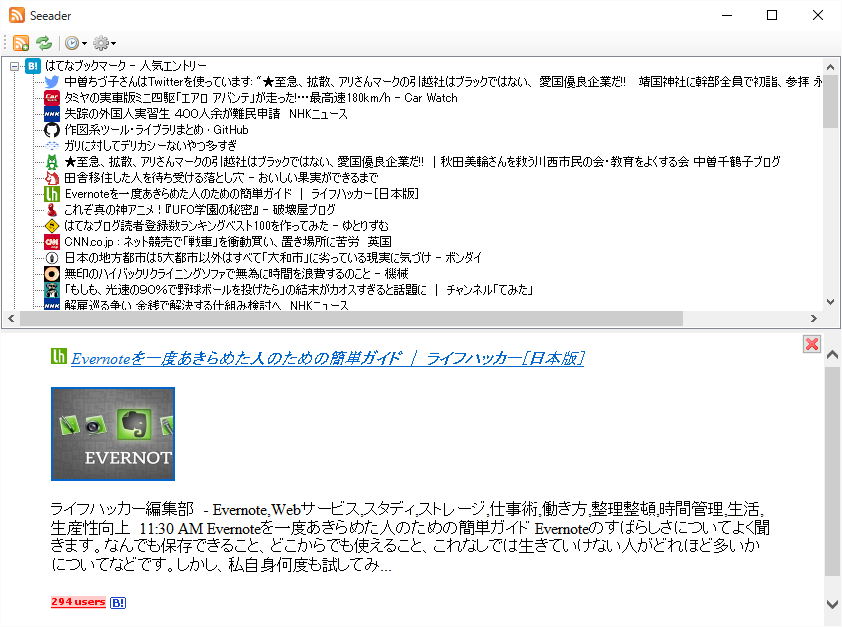
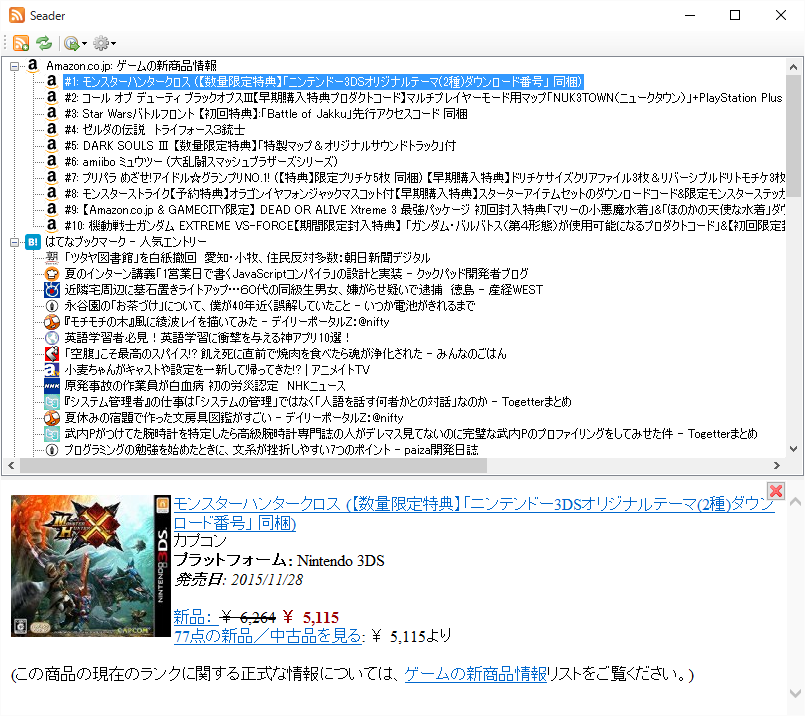
WIP

diff --git a/Seader/FormMain.Designer.cs b/Seader/FormMain.Designer.cs
@@ -54,6 +54,7 @@
             this.backgroundWorkerUpdateFeed = new System.ComponentModel.BackgroundWorker();
             this.timerUpdateFeed = new System.Windows.Forms.Timer(this.components);
             this.toolStripMenuItemOpenBrowser = new System.Windows.Forms.ToolStripMenuItem();
+            this.toolStripSeparator2 = new System.Windows.Forms.ToolStripSeparator();
             this.toolStripMain.SuspendLayout();
             ((System.ComponentModel.ISupportInitialize)(this.splitContainerMain)).BeginInit();
             this.splitContainerMain.Panel1.SuspendLayout();
@@ -67,6 +68,7 @@
             this.toolStripMain.Items.AddRange(new System.Windows.Forms.ToolStripItem[] {
             this.toolStripButtonAddFeed,
             this.toolStripButtonUpdateFeeds,
+            this.toolStripSeparator2,
             this.toolStripDropDownButtonUpdateInterval,
             this.toolStripDropDownButtonConfig,
             this.toolStripLabelLoading});
@@ -286,6 +288,11 @@
             this.toolStripMenuItemOpenBrowser.Size = new System.Drawing.Size(174, 22);
             this.toolStripMenuItemOpenBrowser.Text = "Open(&O)";
             // 
+            // toolStripSeparator2
+            // 
+            this.toolStripSeparator2.Name = "toolStripSeparator2";
+            this.toolStripSeparator2.Size = new System.Drawing.Size(6, 25);
+            // 
             // FormMain
             // 
             this.AutoScaleDimensions = new System.Drawing.SizeF(6F, 12F);
@@ -335,6 +342,7 @@
         private System.Windows.Forms.ToolStripMenuItem toolStripMenuItemCopyUrl;
         private System.Windows.Forms.ToolStripSeparator toolStripSeparator1;
         private System.Windows.Forms.ToolStripMenuItem toolStripMenuItemOpenBrowser;
+        private System.Windows.Forms.ToolStripSeparator toolStripSeparator2;
     }
 }
 
